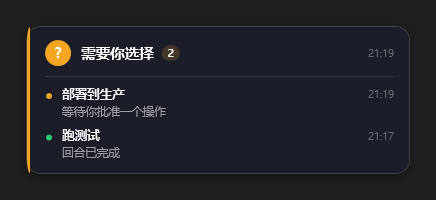
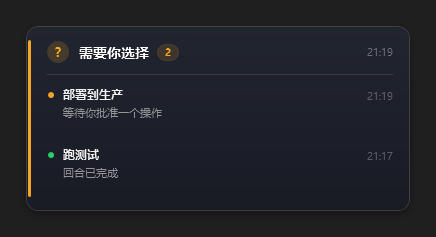
style: 精修卡片视觉——竖向渐变底、内缩胶囊强调条、柔和阴影、四档文字层级

diff --git a/VERIFY.md b/VERIFY.md
@@ -41,7 +41,7 @@ ALL PASS (23 checks)
 & $node .\scripts\selftest.mjs   # 已经包含这一步，产物在 screenshots\*.png
 ```
 
-期望：`completed.png` 436×159、`needs_choice.png` 436×200、`failed.png` 436×159（412 = 卡片 384 宽 + 两侧 14px 阴影留白，再各加 12px 底色留白），均 >4KB。
+期望：`completed.png` 436×177、`needs_choice.png` 436×237、`failed.png` 436×177（412 = 卡片 384 宽 + 两侧 14px 阴影留白，再各加 12px 底色留白），均 >4KB。
 
 ## 3. 卡片图内容自证（纯像素，不需要屏幕）
 
@@ -69,9 +69,9 @@ foreach ($f in 'completed','needs_choice','failed') {
 期望（实测）：
 
 ```
-completed:    436x159 distinct=108 dark=16967 accent=169 text=200
-needs_choice: 436x200 distinct=134 dark=21004 accent=198 text=379
-failed:       436x159 distinct=117 dark=16966 accent=149 text=209
+completed:    436x177 distinct=145 dark=19044 accent=104 text=109
+needs_choice: 436x237 distinct=202 dark=25231 accent=183 text=188
+failed:       436x177 distinct=147 dark=19028 accent=136 text=125
 ```
 
 判定标准：

diff --git a/README.md b/README.md
@@ -78,7 +78,7 @@ powershell -NoProfile -ExecutionPolicy Bypass -File .\scripts\uninstall.ps1
 
 ## 视觉与排版
 
-卡片 384 宽（含阴影留白 412），自适应高度，深色玻璃质感：
+卡片 384 宽（含阴影留白 412），自适应高度，深色玻璃质感。底色是 8° 的竖向渐变（`#F8212530` → `#F8181B24`），边缘 1px `#2BFFFFFF` 微亮描边：
 
 ```
 ┌──────────────────────────────────────────┐
